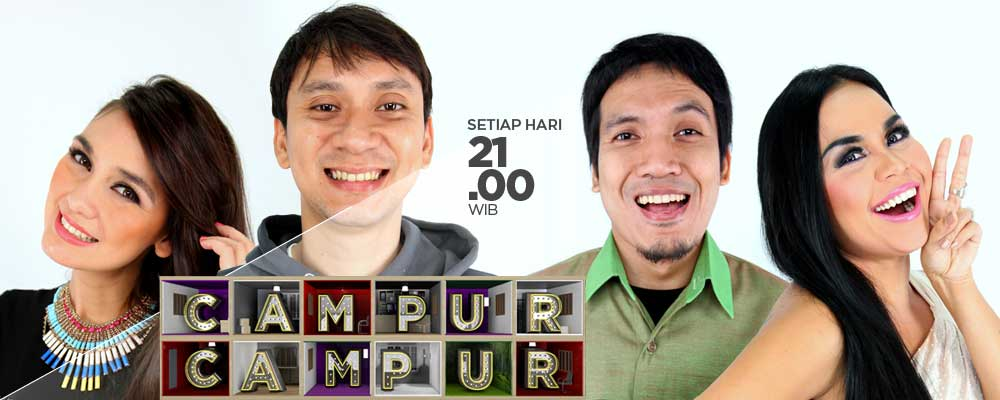
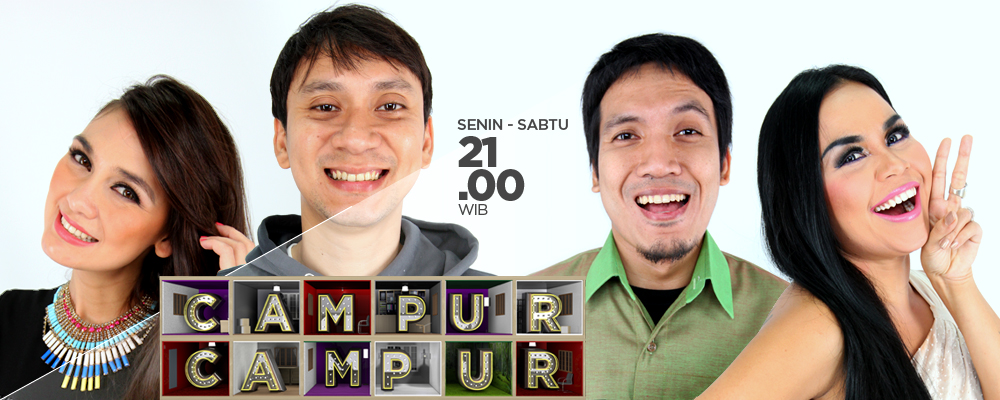
Updetan

diff --git a/css/responsive.css b/css/responsive.css
@@ -45,7 +45,7 @@
 	#close .icon {
 		padding: 0;
 		margin: 0;
-		width: 31px;
+		width: 31px !important;
 		height: 31px;
 	}
 	#menu_area {
@@ -180,7 +180,10 @@
 	}
 	#share div .icon {
 		font-size: 40px;
-		width: 50px;
+	}
+	#share div .icon,
+	.icon {
+		width: 50px !important;
 	}
 	#share div.middle {
 		display: none;

diff --git a/family.php b/family.php
@@ -40,7 +40,7 @@
             <img class="box_mask lazy" src="images/mask.png" width="250" height="158">
             <h4 class="jdl_program">CAHAYA<br>HATI</h4>
             <p class="hari">SENIN - JUMAT</p>
-            <h1 class="jam">04<br>.00 <p>WIB</p></h1>
+            <h1 class="jam">03<br>.30 <p>WIB</p></h1>
           </div>
         </div>
         
@@ -59,7 +59,7 @@
           <div class="box_content">
             <img class="box_mask lazy" src="images/mask2.png" width="250" height="158">
             <h4 class="jdl_program">CAMPUR<br>CAMPUR</h4>
-            <p class="hari">SETIAP HARI</p>
+            <p class="hari">SENIN - SABTU</p>
             <h1 class="jam">21<br>.00 <p>WIB</p></h1>
           </div>
         </div>

diff --git a/index.php b/index.php
@@ -54,7 +54,7 @@
           <div class="box_content">
             <img class="box_mask lazy" src="images/mask.png" width="250" height="158">
             <h4 class="jdl_program">CAMPUR<br>CAMPUR</h4>
-            <p class="hari">SETIAP HARI</p>
+            <p class="hari">SENIN - SABTU</p>
             <h1 class="jam">21<br>.00 <p>WIB</p></h1>
           </div>
         </div>
